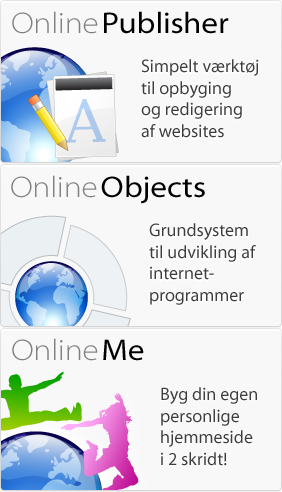
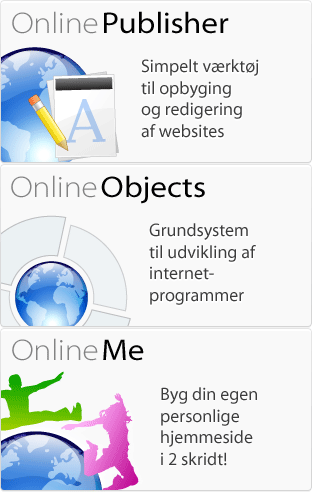
Improved in2iSoft design

diff --git a/style/in2isoft2009/css/overwrite.css b/style/in2isoft2009/css/overwrite.css
@@ -8,16 +8,6 @@ body
 	color: #3080CB;
 }
 
-td.document_column
-{
-	padding-left: 10px;
-}
-
-td.document_column_first
-{
-	padding-left: 0px;
-}
-
 /********************* Common *******************/
 	
 a.common

diff --git a/style/in2isoft2009/css/main.css b/style/in2isoft2009/css/main.css
@@ -505,7 +505,7 @@ a.chrome_placard
 {
 	margin-left: 13px;
 	float: left;
-	width: 282px;
+	width: 312px;
 	height: 164px;
 	background: url('../gfx/placards.png');
 }
